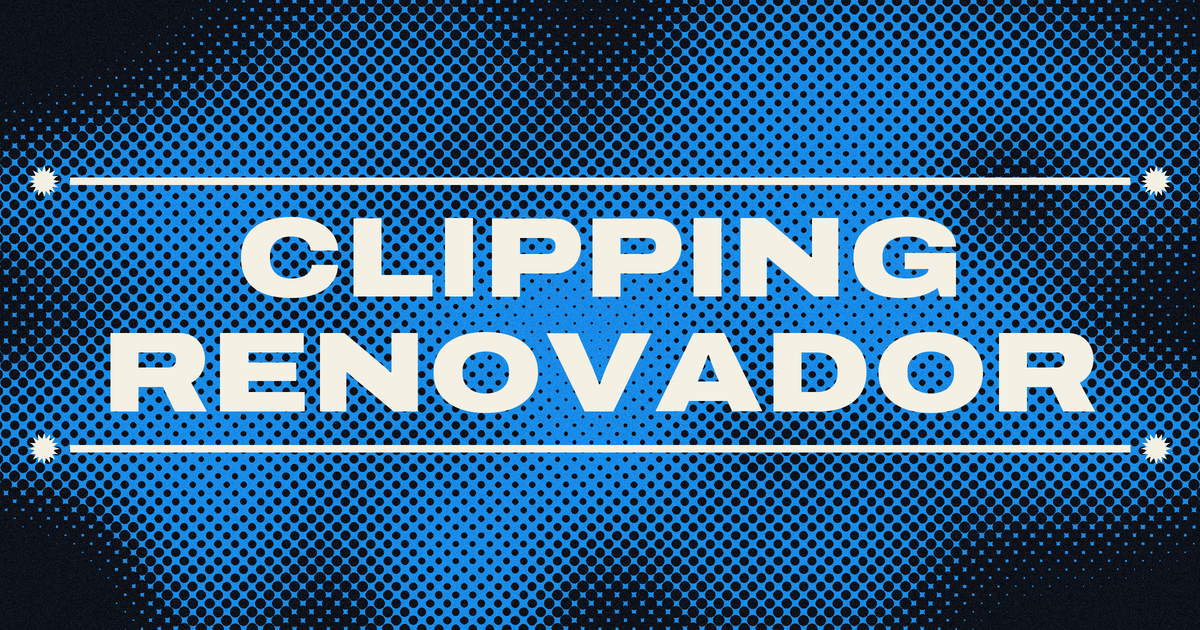
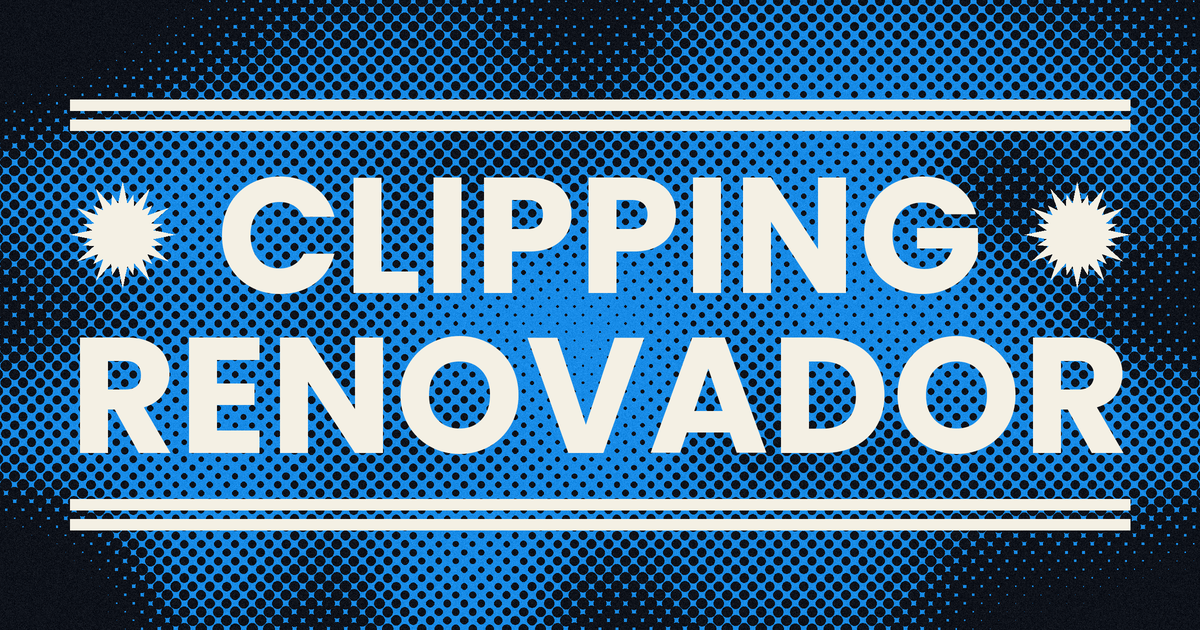
Vista previa: filetes dobles, RENOVADOR a todo el ancho, soles junto a CLIPPING
Claude-Session: https://claude.ai/code/session_01HFtGSc5awzcsbVvtWbUzEu

diff --git a/semanal.html b/semanal.html
@@ -8,7 +8,7 @@
 <meta property="og:type" content="website">
 <meta property="og:title" content="CLIPPING SEMANAL RENOVADOR">
 <meta property="og:description" content="Lo que se dice hoy de Sergio Massa y el Frente Renovador. Se actualiza a las 6, 14 y 22 h.">
-<meta property="og:image" content="https://renzocanch2003-ops.github.io/clipping-renovador/og.png?v=4">
+<meta property="og:image" content="https://renzocanch2003-ops.github.io/clipping-renovador/og.png?v=5">
 <meta property="og:image:width" content="1200">
 <meta property="og:image:height" content="630">
 <meta property="og:url" content="https://renzocanch2003-ops.github.io/clipping-renovador/">

diff --git a/index.html b/index.html
@@ -8,7 +8,7 @@
 <meta property="og:type" content="website">
 <meta property="og:title" content="Clipping Renovador">
 <meta property="og:description" content="Lo que se dice hoy de Sergio Massa y el Frente Renovador. Se actualiza a las 6, 14 y 22 h.">
-<meta property="og:image" content="https://renzocanch2003-ops.github.io/clipping-renovador/og.png?v=4">
+<meta property="og:image" content="https://renzocanch2003-ops.github.io/clipping-renovador/og.png?v=5">
 <meta property="og:image:width" content="1200">
 <meta property="og:image:height" content="630">
 <meta property="og:url" content="https://renzocanch2003-ops.github.io/clipping-renovador/">

diff --git a/scripts/og.py b/scripts/og.py
@@ -113,6 +113,14 @@ def sol_chico(d, cx, cy, r, color):
     d.ellipse([cx - r * 0.55, cy - r * 0.55, cx + r * 0.55, cy + r * 0.55], fill=color)
 
 
+def sol_grande(d, cx, cy, r, color):
+    """Sol de 24 rayos alternados largos y cortos."""
+    for k in range(24):
+        largo = r if k % 2 == 0 else r * 0.78
+        d.polygon(rayo_recto(cx, cy, k * 15, r * 0.45, largo, r * 0.11), fill=color)
+    d.ellipse([cx - r * 0.5, cy - r * 0.5, cx + r * 0.5, cy + r * 0.5], fill=color)
+
+
 def main():
     import numpy as np
     rng = np.random.default_rng(1945)
@@ -145,37 +153,66 @@ def main():
     img = Image.fromarray(np.clip(arr, 0, 255).astype("uint8"))
     d = ImageDraw.Draw(img)
 
-    # Titulo crema entre filetes, como las piezas de Jovenes FR
+    # Titulo crema entre filetes dobles, como las piezas de Jovenes FR
     margen = 70 * E
-    tam = 150
-    while True:
+    ancho_util = W - 2 * margen
+
+    def tinta(texto, f, esp):
+        """Ancho real de tinta y desplazamiento izquierdo del texto con espaciado esp."""
+        x, izq, der = 0, None, 0
+        for k, c in enumerate(texto):
+            b = d.textbbox((x, 0), c, font=f)
+            if izq is None:
+                izq = b[0]
+            der = b[2]
+            x += d.textlength(c, font=f) + esp
+        return der - izq, izq
+
+    def dibujar(texto, f, esp, x_ini, y):
+        _, izq = tinta(texto, f, esp)
+        x = x_ini - izq
+        for c in texto:
+            d.text((x, y), c, font=f, fill=CREMA)
+            x += d.textlength(c, font=f) + esp
+
+    # Tamaño: RENOVADOR ocupa exactamente el ancho de los filetes
+    tam = 200
+    while tam > 60:
         f = fuente(tam * E, 900, 125)
-        if d.textlength("RENOVADOR", font=f) + 16 * E <= W - 2 * margen - 60 * E or tam <= 80:
+        if tinta("RENOVADOR", f, 2 * E)[0] <= ancho_util:
             break
-        tam -= 4
-    grosor = 7 * E
+        tam -= 2
+    w_ren, _ = tinta("RENOVADOR", f, 0)
+    esp_ren = (ancho_util - w_ren) / 8
+    esp_cli = 2 * E
+    w_cli, _ = tinta("CLIPPING", f, esp_cli)
+
     caja = d.textbbox((0, 0), "RENOVADOR", font=f)
     alto_l = caja[3] - caja[1]
-    gap = alto_l * 0.42
-    arriba = (H - (2 * alto_l + gap)) / 2
-    y1 = arriba - caja[1]
-    y2 = y1 + alto_l + gap
-    texto_centrado(d, y1, "CLIPPING", f, CREMA, espaciado=2 * E)
-    bbox = d.textbbox((0, y1), "CLIPPING", font=f)
-    alto = bbox[3] - bbox[1]
-    sep = (y2 - y1 - alto)
-    filete_sup = bbox[1] - 32 * E
-    filete_medio = bbox[3] + sep / 2
-    texto_centrado(d, y2, "RENOVADOR", f, CREMA, espaciado=2 * E)
-    b2 = d.textbbox((0, y2), "RENOVADOR", font=f)
-    filete_inf = b2[3] + 32 * E
-    d.rectangle([margen, filete_sup - grosor, W - margen, filete_sup], fill=CREMA)
-    d.rectangle([margen, filete_inf, W - margen, filete_inf + grosor], fill=CREMA)
-    for x in (margen - 2 * E, W - margen + 2 * E):
-        pass
-    for yf in (filete_sup - grosor / 2, filete_inf + grosor / 2):
-        sol_chico(d, margen - 26 * E, yf, 15 * E, CREMA)
-        sol_chico(d, W - margen + 26 * E, yf, 15 * E, CREMA)
+    grosor = 11 * E
+    entre_filetes = 9 * E
+    aire = alto_l * 0.38
+    gap = alto_l * 0.36
+    bloque_filetes = 2 * grosor + entre_filetes
+    total = 2 * bloque_filetes + 2 * aire + 2 * alto_l + gap
+    y = (H - total) / 2
+
+    def filetes(y0):
+        d.rectangle([margen, y0, W - margen, y0 + grosor], fill=CREMA)
+        d.rectangle([margen, y0 + grosor + entre_filetes, W - margen, y0 + 2 * grosor + entre_filetes], fill=CREMA)
+
+    filetes(y)
+    y_cli = y + bloque_filetes + aire
+    y_ren = y_cli + alto_l + gap
+    dibujar("CLIPPING", f, esp_cli, (W - w_cli) / 2, y_cli - caja[1])
+    dibujar("RENOVADOR", f, esp_ren, margen, y_ren - caja[1])
+    filetes(y_ren + alto_l + aire)
+
+    # Soles a los costados de CLIPPING, alineados con el inicio y el fin de los filetes
+    r_sol = min(alto_l * 0.46, (ancho_util - w_cli) / 2 * 0.36)
+    cy = y_cli + alto_l / 2
+    sol_grande(d, margen + r_sol, cy, r_sol, CREMA)
+    sol_grande(d, W - margen - r_sol, cy, r_sol, CREMA)
 
     img = img.resize((W // E, H // E), Image.LANCZOS)
     img.save(RAIZ / "og.png", optimize=True)
